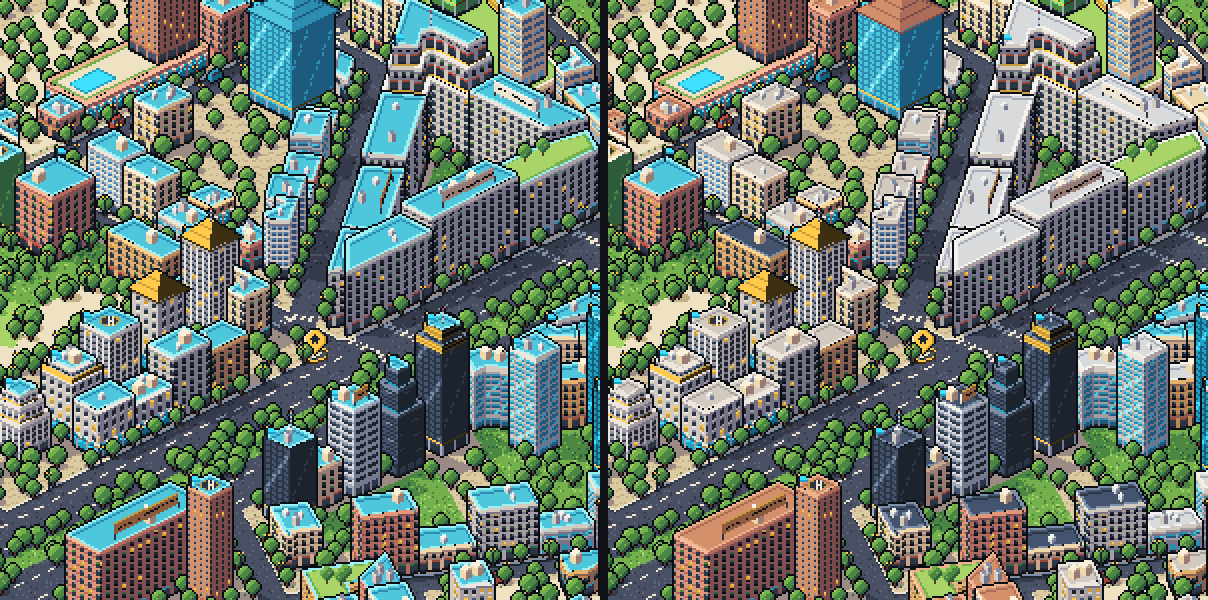
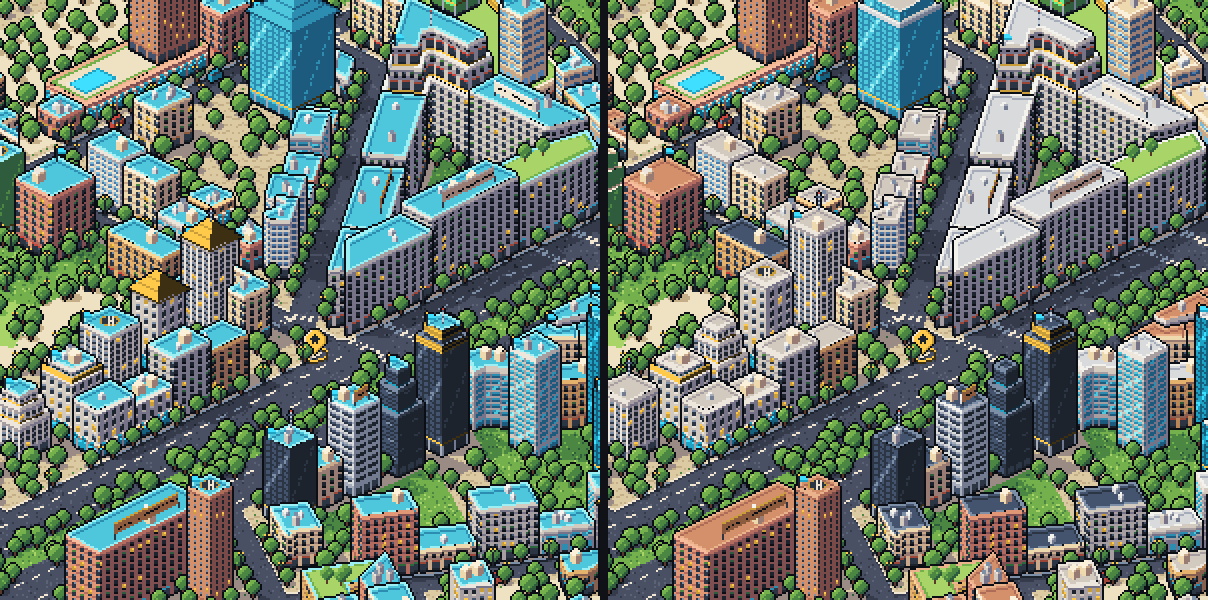
One flag per owned lot, natural roofs everywhere, no pyramid crowns
Owned houses, blocks and sheds keep their own roof colours too; an owned lot
flies a single cyan flag instead of one per building. The gold pyramid crown
is gone: towers that wore it get an ordinary crown, and the PIRAMIDE
archetype becomes PLAZA.

Claude-Session: https://claude.ai/code/session_01NbsGb8LmPHM5TSczA1ajDg

diff --git a/CLAUDE.md b/CLAUDE.md
@@ -282,7 +282,7 @@ calls (`press`/`click`/`drag`/`hover`/`wheel`/`back`) in canvas coordinates.
   house in its head; an object of no lot, so it sorts, outlines and goes through the depth pass
   like a lamp but never into the pick image) at `OfficeMark.at`; street trees, lamps, people and
   garden trees keep `MARK_CLEAR` from it. The lot the office was placed on is an ordinary lot.
-  Owned = teal roofs (tiers 1-3; tall lots keep their own roofs, a sea of teal read as blue lids) + cyan flags; an owned solar flies a flag instead of the sale sign.
+  Owned = one cyan flag per lot (`_take_flag`; roofs keep their own colours: teal ones read as a sea of blue lids); an owned solar flies a flag instead of the sale sign.
   Each lot's ground ops (`lot_ground`), shadows (`lot_shadows`) and objects are kept apart so
   `rebuild_lot` can lay it out again; `lots[i].roof` is where its pops rise; `tags` off leaves the
   price tags to the game. Every object records its `lot`; buildings fade per lot (`lots[i].active`
@@ -301,7 +301,7 @@ calls (`press`/`click`/`drag`/`hover`/`wheel`/`back`) in canvas coordinates.
   on the street, a taller one behind it, AC, signs, helipad), HOTEL (a pool deck wing and a
   balcony tower), ESQUINA (a chamfered landmark on the street corner, wings along both streets),
   BLOQUE EN L (a stepped slab round the streets, its corner rising, pool and garden inside),
-  PIRAMIDE (a tower with a pyramid roof, pavilions); an archetype the lot has no room for hands
+  PLAZA (a tower on a plaza, pavilions; it was a pyramid roof, Oscar dropped them); an archetype the lot has no room for hands
   over to the next. `_fill` then lines the lot's free street sides with lower buildings of their
   own heights and facades (some sites left open), so a grown district keeps the mid tiers'
   grain. **Materials**: `SCHEMES` (12) give each lot a tall / alt / mid material, trim and roof:
@@ -312,7 +312,7 @@ calls (`press`/`click`/`drag`/`hover`/`wheel`/`back`) in canvas coordinates.
   `C_PAD`, `C_ANTENNA` or `C_SPIRE`; `_props` puts AC units, water tanks, huts, solar panels, a
   rooftop sign or a roof garden on flat roofs. **Height cap** so a grown area reads in the
   widget: torres' tallest `TOWER_Z` 30-42 px (+ up to a 5 px setback), rascacielos' tallest
-  exactly `SKY_Z` 52-60 px (`sky_z`) + a crown (gold bands, spire, helipad, pyramid or mast; a
+  exactly `SKY_Z` 52-60 px (`sky_z`) + a crown (gold bands, spire, helipad or mast, never a pyramid; a
   7 px spire at most); mid-rise `MID_Z`, pavilions `LOW_Z`; `top()` is what
   `AreaBuilder.top_of` and the live headroom use. `AreaBuilder.skyline` (default `MIX`) lets
   tools force one archetype.
